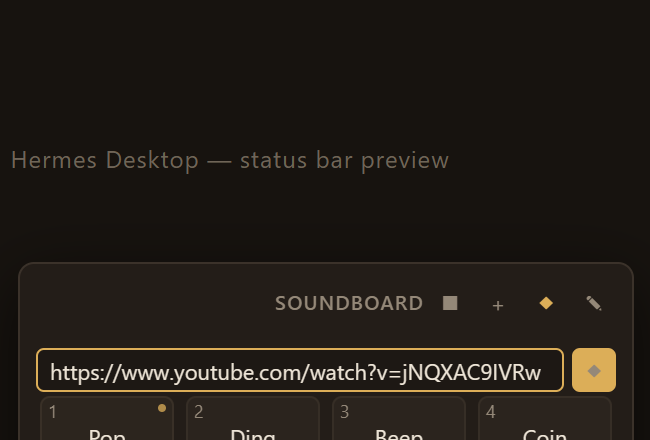
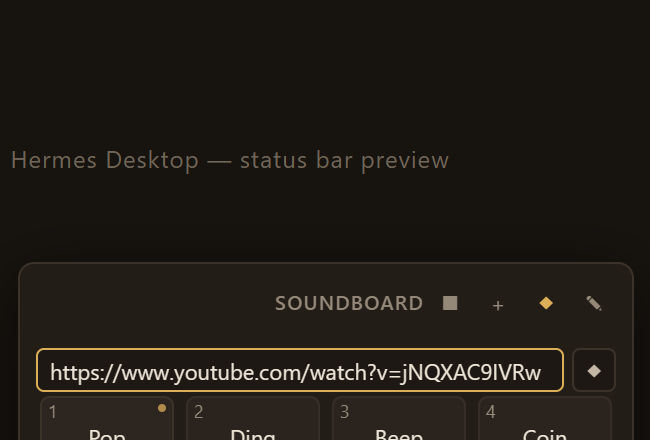
Fix YouTube import: shell.exec is session-bound
Report: importing https://www.youtube.com/shorts/ELHq8HvexFo failed with a bare
"invalid_params" in the panel.

That string is a gateway RPC reason, not one of the plugin's messages, which is
the tell: the call never reached a shell. gateway/session_shell.py opens with

    if (set(params) - {'session_id','profile','command'}
            or not isinstance(ref.session_id, str) or not ref.session_id ...):
        raise RuntimeStoreError('invalid_params')

shell.exec runs a command in the FOCUSED chat's frozen cwd behind that session's
policy, so it needs a session_id and there is no session-less variant. The
plugin sent only {command}. Every import, any URL, would have failed this way.

- runShell now reads host.state.activeSessionId and sends it as session_id.
- importYoutube checks for a session BEFORE calling out, and reports it as
  "Open a chat first" rather than letting the raw code reach the UI. A chat open
  is now a stated requirement, not an accident of which window was focused.
- The jsdom suite covers both: a call with no session is refused before any
  process runs, and a raw invalid_params string can never be shown to the user.
- A contract check runs the handler's own guard predicate against the payload
  the plugin sends, so the shape is verified rather than assumed.

Button: the confirm control was a solid accent block, which read as a stray
yellow square among quiet 22px glyph buttons. It is now the same shape as its
[…]

Changed region(s): [[0.8615, 0.7682, 0.9538, 0.9159]]

diff --git a/plugin.js b/plugin.js
@@ -467,9 +467,32 @@ async function probeTools() {
 }
 
 /** Run one command through the gateway's shell door. Returns captured stdout
- *  when `capture` is set, else a boolean "it launched". */
+ *  when `capture` is set, else a boolean "it launched".
+ *
+ *  `shell.exec` is SESSION-BOUND: the gateway's handler refuses with
+ *  `invalid_params` unless the call carries a `session_id` naming a live local
+ *  chat, because it runs the command in that session's frozen cwd behind the
+ *  same policy as a user's `!cmd`. Omitting it was the whole bug — the RPC layer
+ *  rejected the call before any command ran, and the raw code surfaced in the
+ *  panel. There is no session-less variant to fall back to, so the focused
+ *  chat's runtime id is the door, and "no chat open" is reported as such
+ *  instead of as a converter failure. */
+function activeSessionId() {
+  try {
+    return host.state?.activeSessionId?.get?.() ?? null
+  } catch {
+    return null
+  }
+}
+
 async function runShell(command, { capture = false } = {}) {
-  const result = await host.request('shell.exec', { command })
+  const sessionId = activeSessionId()
+  // Defensive only: importYoutube checks this first so the user gets a
+  // localised message. Reaching here without a session means it appeared to
+  // have one and then lost it.
+  if (!sessionId) throw new ImportError('noSession', 'Open a chat first — the converter runs inside a session.')
+
+  const result = await host.request('shell.exec', { command, session_id: sessionId })
   const stdout = result?.stdout ?? ''
   const code = result?.code ?? 0
   return capture ? stdout : code === 0 || Boolean(stdout)
@@ -882,6 +905,10 @@ function createEngine(ctx) {
     if (!files) throw new ImportError('noFileAccess', t('noFileAccess'))
     const videoId = parseYoutube(input)
     if (!videoId) throw new ImportError('badUrl', t('ytBadUrl'))
+    // `shell.exec` runs inside a live local chat (its cwd and policy come from
+    // that session), so there is nothing to run in without one. Say so plainly
+    // rather than surfacing the gateway's `invalid_params`.
+    if (!activeSessionId()) throw new ImportError('noSession', t('ytNoSession'))
     if (sounds.get().length >= MAX_SOUNDS) throw new ImportError('tooMany', t('tooMany'))
 
     const dir = await dataDir()
@@ -1251,11 +1278,28 @@ const CSS = `
   border:1px solid var(--ui-stroke-secondary);outline:none}
 .hermes-sb-yt-input:focus{border-color:var(--ui-accent)}
 .hermes-sb-yt-input:disabled{opacity:.6}
+/* The submit button is a CONTROL, not a call to action: it sits inside a row of
+   quiet header buttons and a bordered field, so a solid accent block read as a
+   stray yellow square. It now uses the same shape as its neighbours — bordered,
+   tertiary fill, secondary glyph — and only the accent BORDER marks it as the
+   one that commits, which is how the trigger picker already signals state. */
 .hermes-sb-yt-go{display:inline-flex;align-items:center;justify-content:center;width:22px;height:22px;flex-shrink:0;
-  border-radius:4px;color:var(--ui-bg-primary);background-color:var(--ui-accent)}
-.hermes-sb-yt-go:disabled{opacity:.45;cursor:default}
-.hermes-sb-yt-note{padding:4px 2px 0;font-size:9px;line-height:12px;color:var(--ui-text-quaternary)}
-.hermes-sb-yt-note[data-error=true]{color:var(--ui-text-secondary)}
+  border-radius:4px;color:var(--ui-text-secondary);background-color:var(--ui-bg-tertiary);
+  border:1px solid var(--ui-stroke-secondary)}
+.hermes-sb-yt-go:hover{border-color:var(--ui-accent);color:var(--ui-text-primary)}
+.hermes-sb-yt-go:active{background-color:var(--chrome-action-hover)}
+.hermes-sb-yt-go:focus-visible{outline:1px solid var(--ui-accent);outline-offset:-1px}
+.hermes-sb-yt-go:disabled{opacity:.45;cursor:default;border-color:var(--ui-stroke-tertiary);color:var(--ui-text-quaternary)}
+.hermes-sb-yt-go:disabled:hover{border-color:var(--ui-stroke-tertiary);color:var(--ui-text-quaternary)}
+.hermes-sb-yt-note{padding:5px 2px 0;font-size:10px;line-height:14px;color:var(--ui-text-tertiary)}
+/* An error is the one thing in this row the user MUST read, so it gets normal
+   secondary text, a warning glyph via the marker, and a wrapped line — not the
+   dimmest 9px tone it used to have. */
+.hermes-sb-yt-note[data-error=true]{color:var(--ui-text-secondary);padding-left:12px;position:relative}
+.hermes-sb-yt-note[data-error=true]::before{content:"!";position:absolute;left:2px;top:5px;
+  width:8px;height:8px;border-radius:50%;text-align:center;
+  font-size:7px;line-height:8px;font-weight:700;
+  color:var(--ui-bg-primary);background-color:var(--ui-text-tertiary)}
 .hermes-sb-body{position:relative}
 `
 
@@ -1963,6 +2007,7 @@ const LOCALES = {
     ytNoYtdlp: 'yt-dlp is not available. Install uv (it is bundled with Hermes) and try again.',
     ytNoFfmpeg: 'ffmpeg was not found on PATH — yt-dlp needs it to make an mp3.',
     ytNoShell: 'Hermes refused to run the converter.',
+    ytNoSession: 'Open a chat first — the converter runs inside the session that is currently open.',
     ytTooLong: 'That video is {secs}s long. Soundboard clips are capped at 30s — pick a shorter one.',
     ytTimeout: 'The conversion did not finish in three minutes.',
     ytFailed: 'The conversion failed.',
@@ -2007,6 +2052,7 @@ const LOCALES = {
     ytNoYtdlp: 'yt-dlp jest niedostępny. Zainstaluj uv (jest w zestawie z Hermes) i spróbuj ponownie.',
     ytNoFfmpeg: 'Nie znaleziono ffmpeg w PATH — yt-dlp potrzebuje go do mp3.',
     ytNoShell: 'Hermes odmówił uruchomienia konwertera.',
+    ytNoSession: 'Najpierw otwórz czat — konwerter działa w obrębie otwartej sesji.',
     ytTooLong: 'Ten film ma {secs}s. Klipy dźwiękowe są ograniczone do 30s — wybierz krótszy.',
     ytTimeout: 'Konwersja nie zakończyła się w trzy minuty.',
     ytFailed: 'Konwersja nie powiodła się.',

diff --git a/README.md b/README.md
@@ -65,6 +65,10 @@ Paste a link, get a pad. The link button in the panel header opens a one-field
 row; Enter or the arrow button starts the conversion, and the pad appears when
 it finishes — typically a few seconds for a short clip.
 
+- **An open chat is required.** `shell.exec` is session-bound: the gateway runs
+  the command in the focused chat's cwd under that session's policy, and refuses
+  with `invalid_params` if the call names no live session. So the import needs a
+  chat open, and says so plainly instead of surfacing that code.
 - **What it needs.** `yt-dlp` and `ffmpeg`. yt-dlp is fetched on demand by
   `uvx`, which ships with Hermes, so in practice only **ffmpeg** has to be on
   `PATH`. Both are probed before the field is offered, and a missing one is
